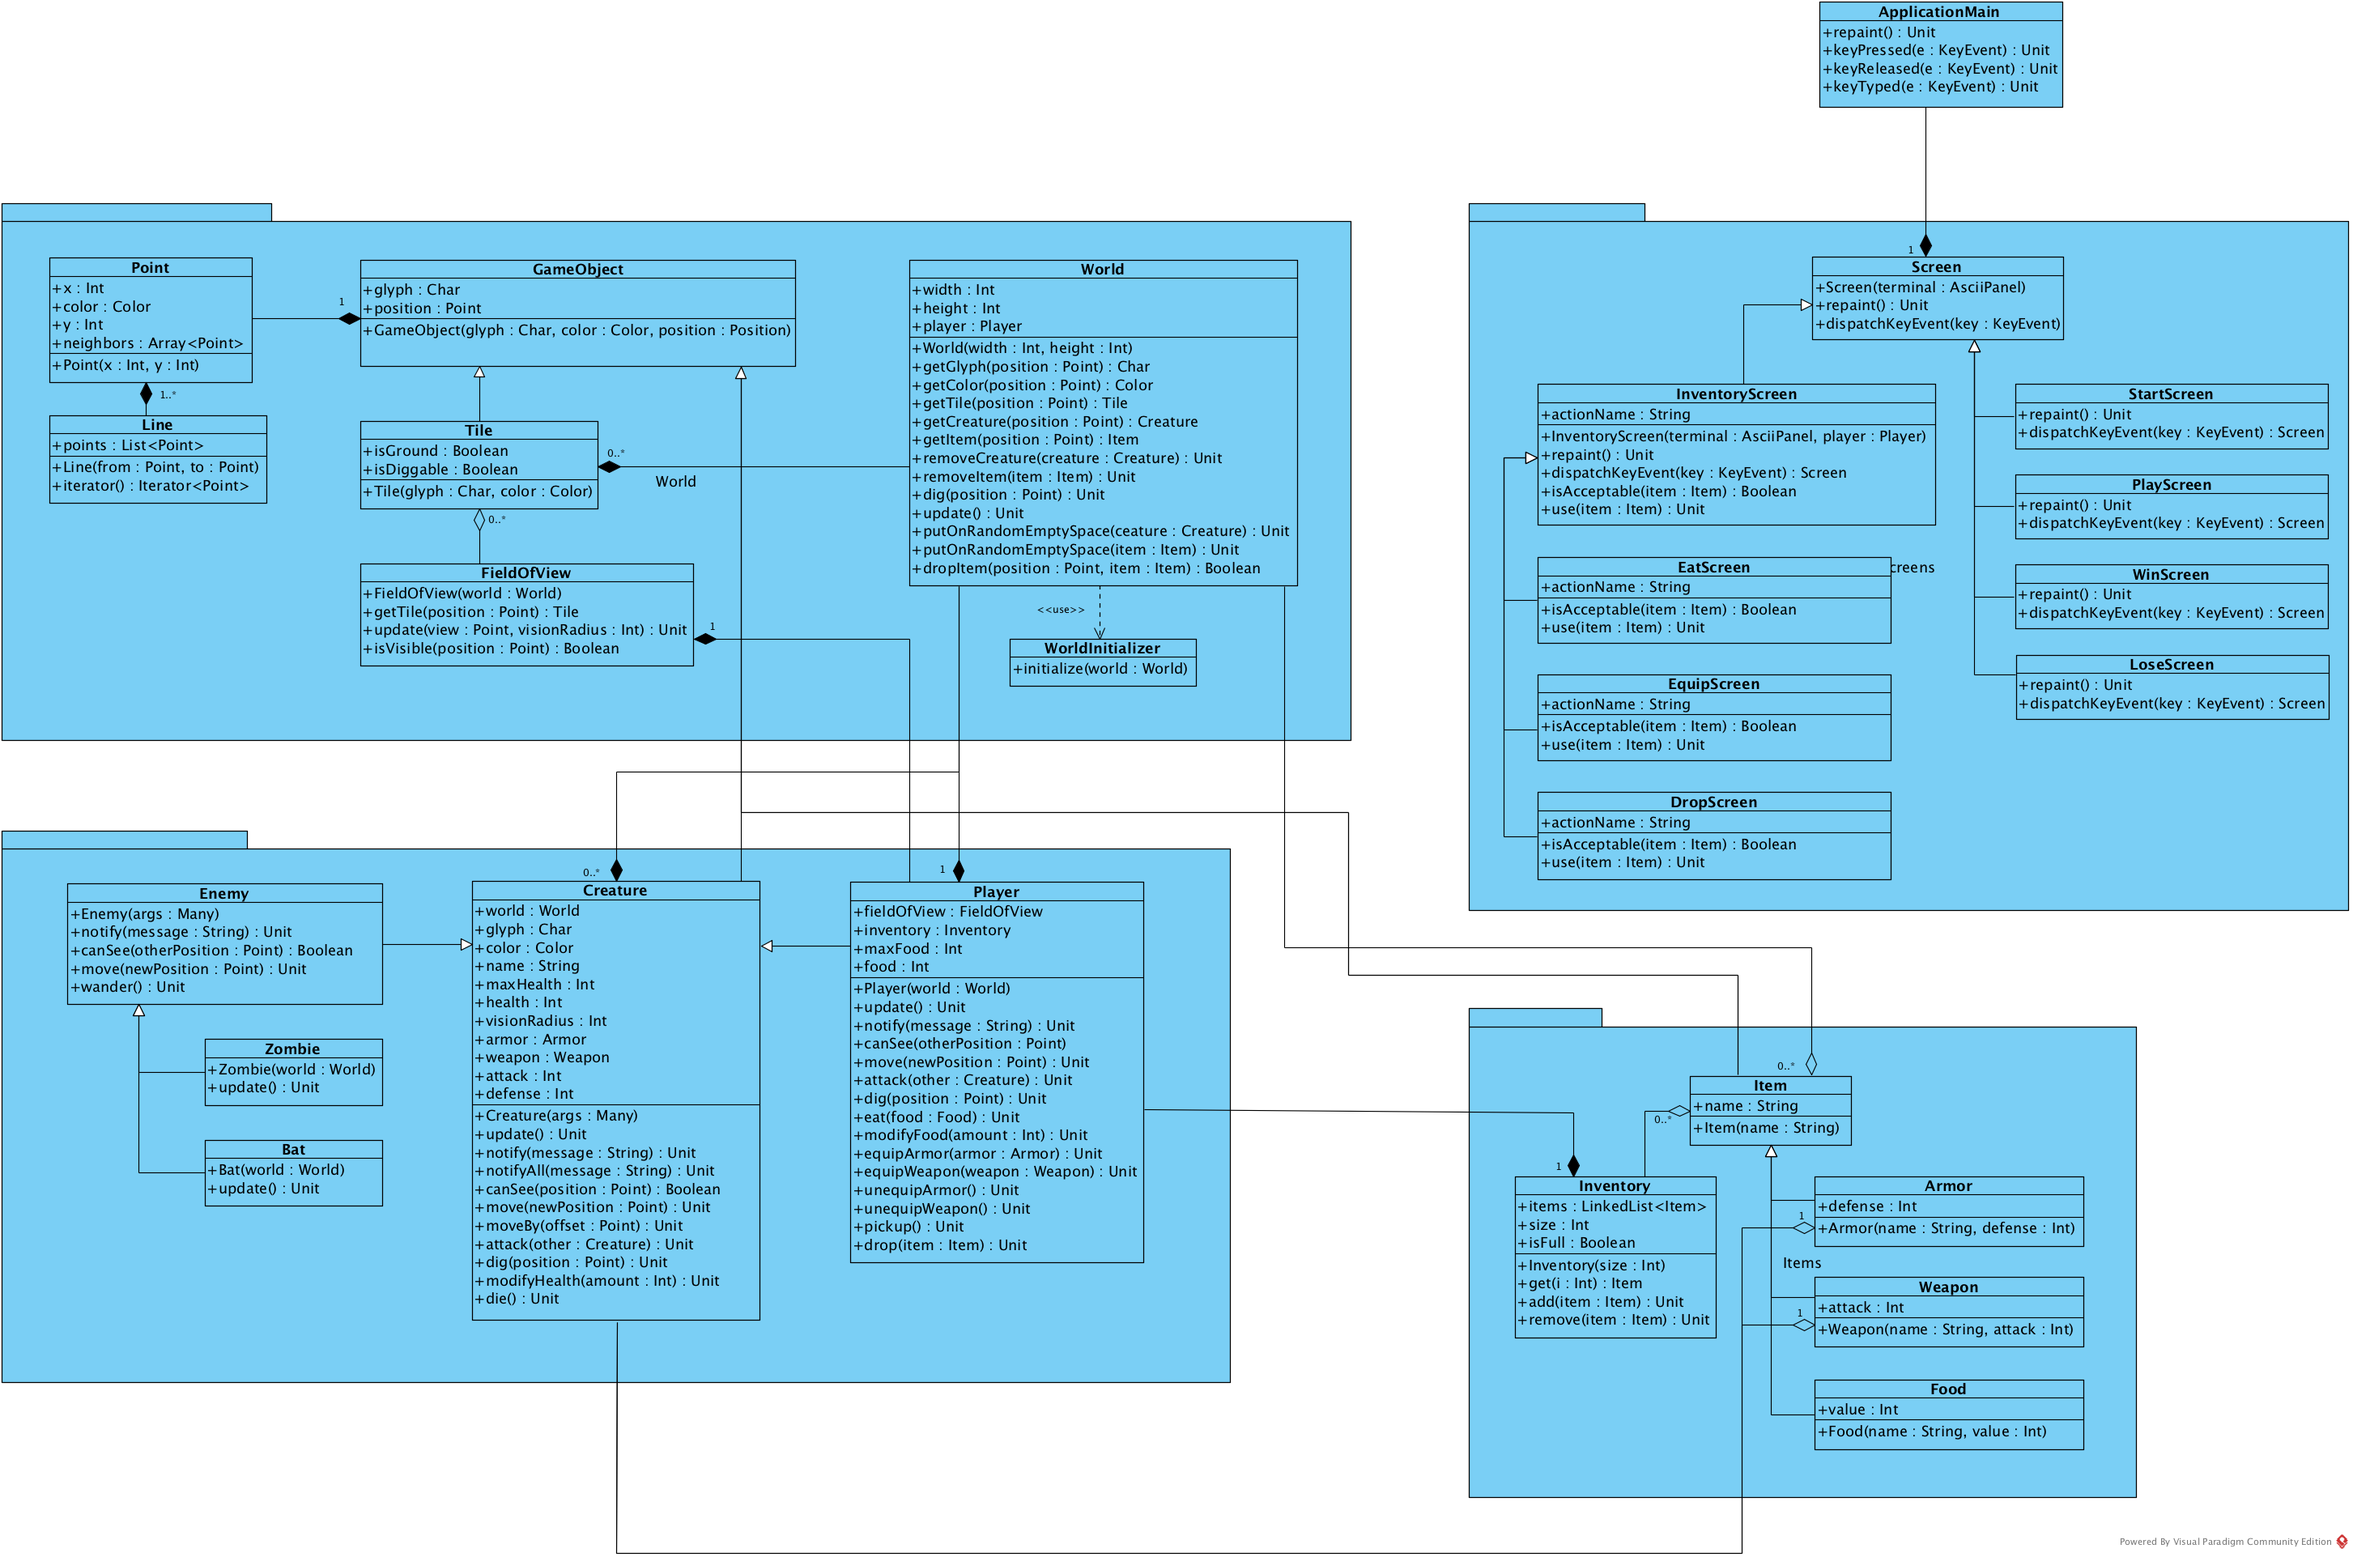
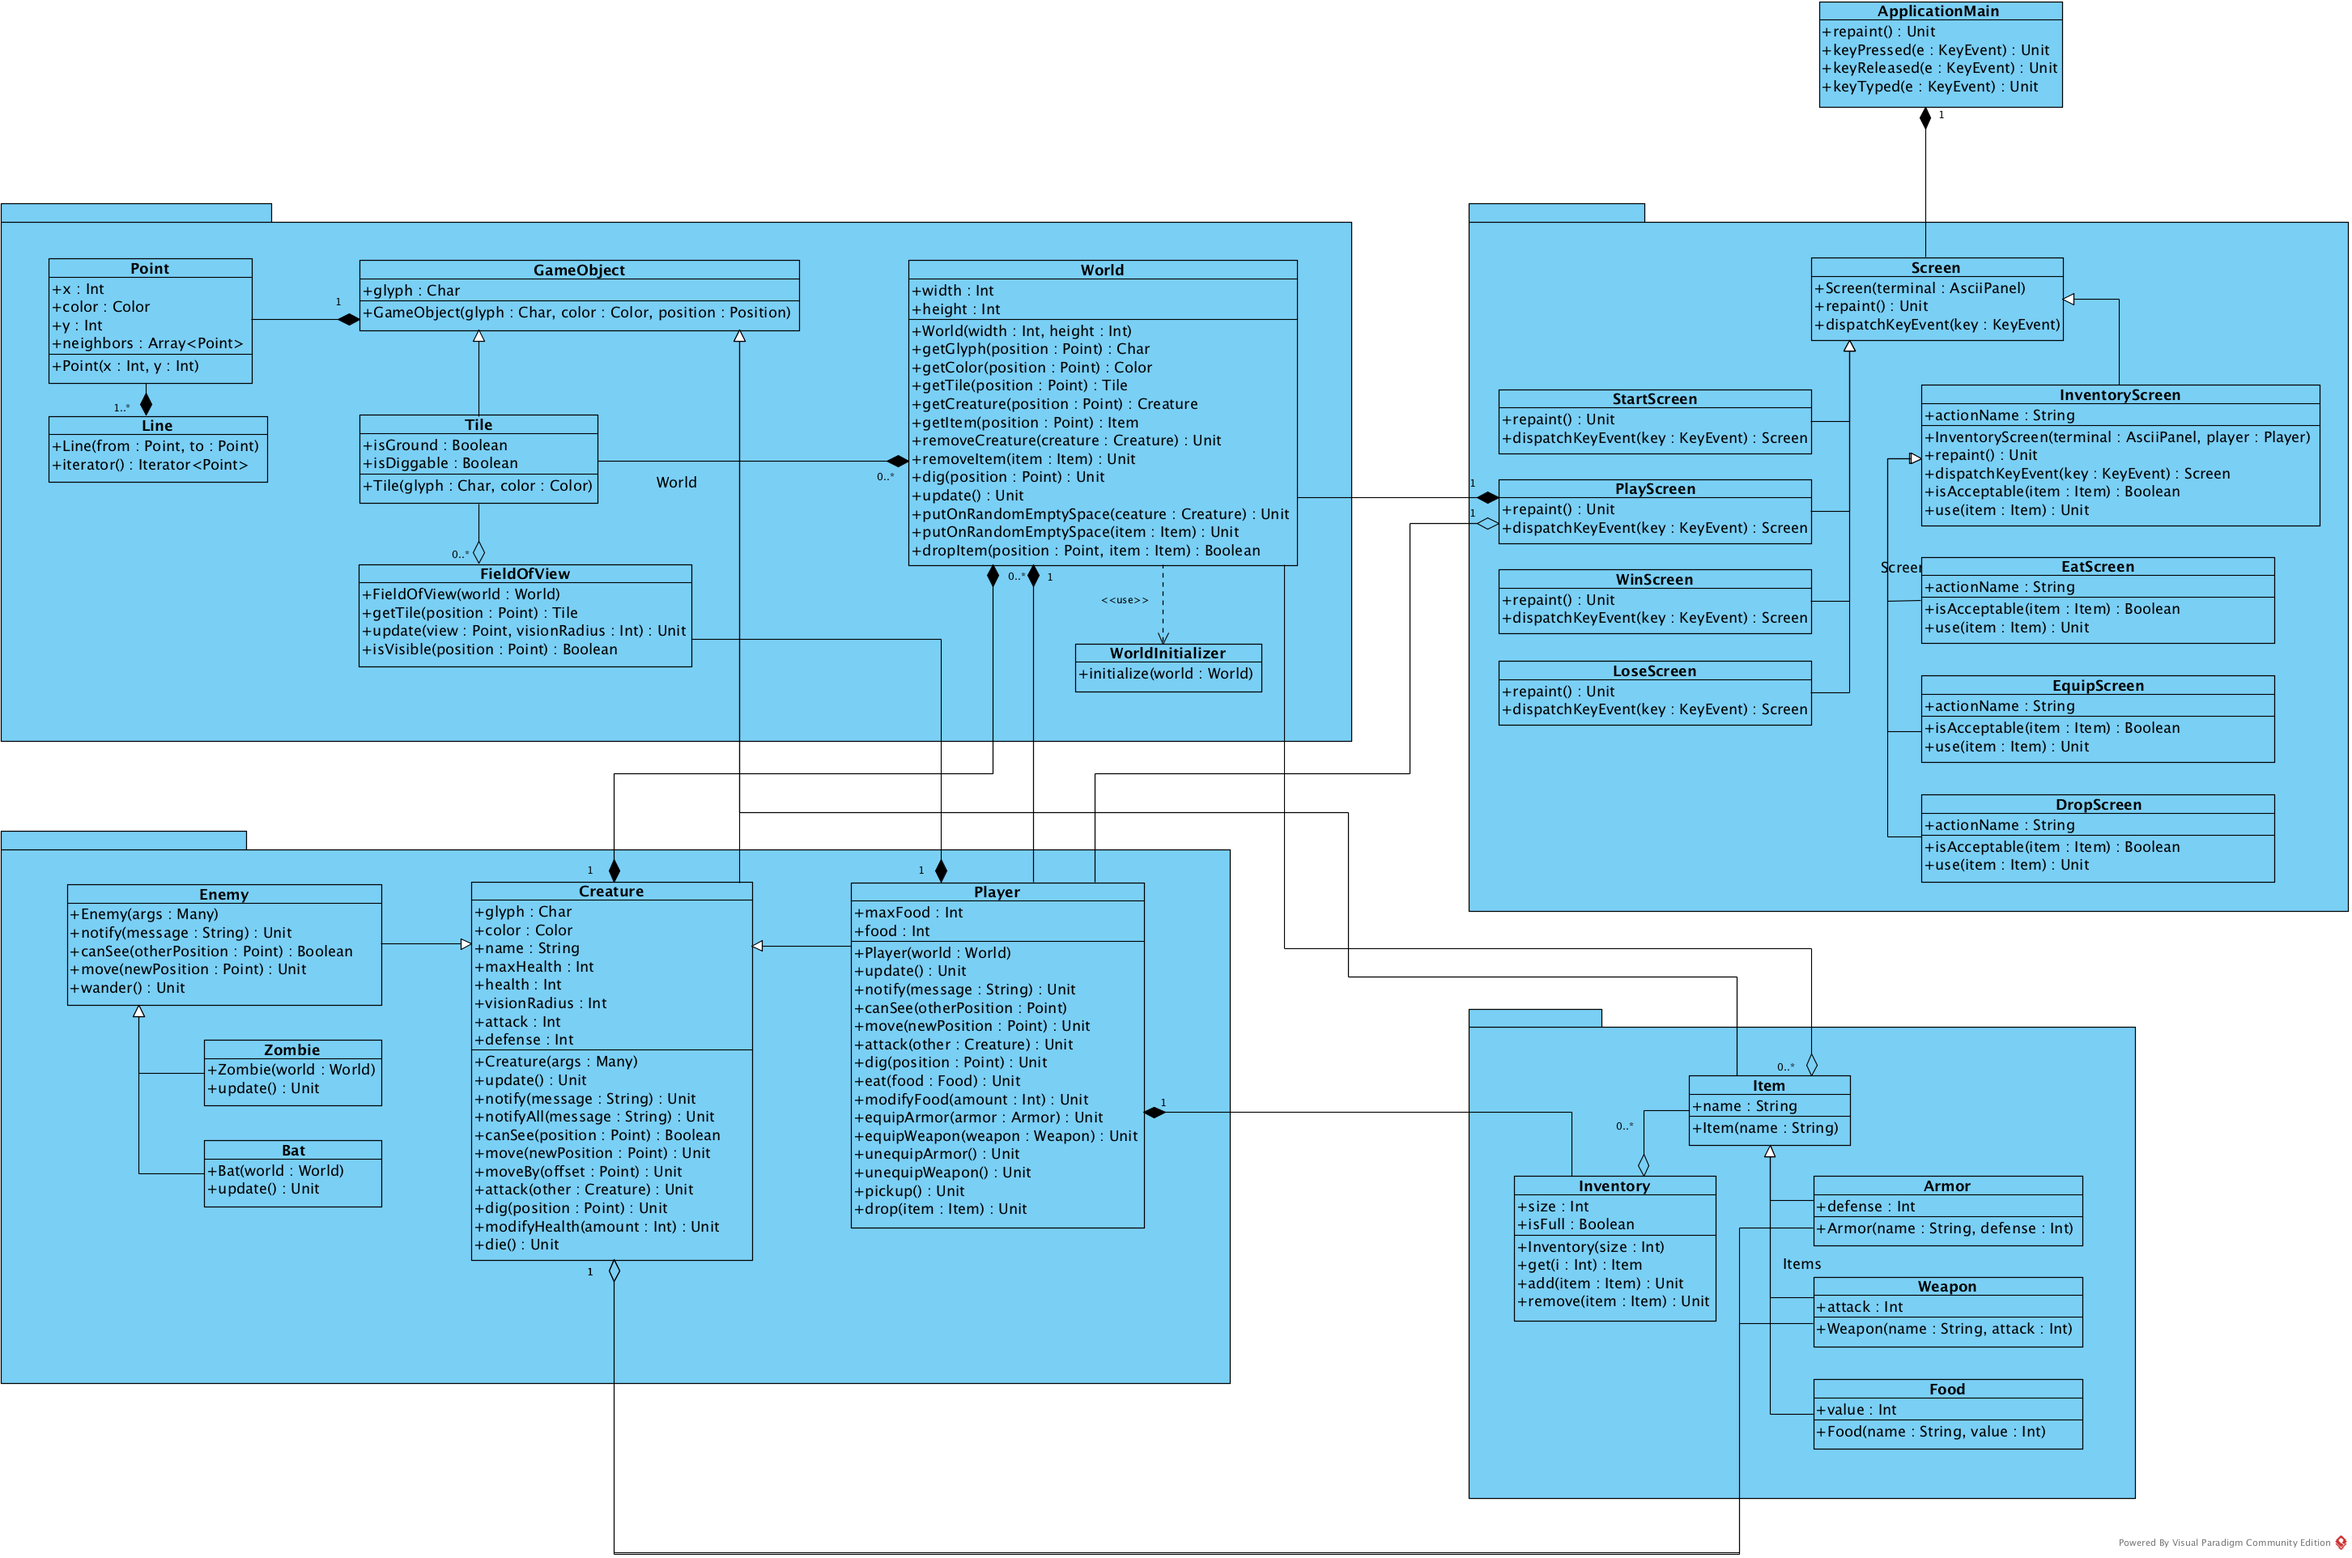
Fix desdoc

diff --git a/desdoc/README.md b/desdoc/README.md
@@ -108,12 +108,52 @@
 Для победы необходимо найти Грааль (`G`), дойти до выхода (`<`) и выйти на поверхность (нажатием `q`). 
 
 ## Композиция и логическая структура
+
 ![Classes](classes.png)  
-  
+
+В игре имеется 4 группы сущностей - Экраны, Мир, Существа и Предметы.
+
++ Экраны - экраны для каждого игрового режима. В игре имеется стартовый экран, игрово экран,
+экраны меню (снаряжения, еды, выбрасывания) и победный / проигрышный экран.
+На игровом экране происходит обработка всей основной игровой логики.
+На экранах меню обрабатывается специализированная игровая логика.
++ Мир - агрегирует в себе ландшафт, предметы, существ и игрока.
++ Существа - это одушевленные игровые объекты. Имеется абстрактнык класс Существо и его реализации - 
+Игрок, котором управляет игрок и Противник игрока, действующий в соответствии со своей моделью поведения.
+Противник игрока также является абстрактным классом. На данный момент имеются две реализации - 
+Летучая мышь и Зомби, которые отличаются своим поведением, набором характеристик и внешним видом.
++ Предметы - это неодушевленные игровые, которые можно держать в инвентаре или положить на землю.
+Все объекты можно разделить на 4 группы - Оружие, Броня, Еда и Остальное.
+Оружие и броню можно надеть, чтобы улучшить свои характеристики. Еду можно съесть, чтобы избавиться от голода.
+Среди остальных предметов на данный момент представлены Камень и Грааль. 
+Первый не несет никакой пользы, а второй является частью условия победы.
+
+Точка входа в игру - ApplicationMain. Она владеет текущим игровым экраном.
+
 ## Взаимодействия и состояние
 
 ### Диаграмма последовательностей
-![Sequences](sequences.png)  
-  
+
+![Sequences](sequences.png)
+
+После инициализации игры игрок автоматически перенаправляется на стартовый экран.
+Далее игрок начинает игру и переходит на игровой экран.
+Игрок может выбрать экипировку, перейдя на специализированный экран выбора экипировки.
+Игрок может съесть предмет из инвентаря, перейдся на специализированный экран приема пищи.
+Игрок может выбросить предмет из инвентаря, перейдся на специализированный экран выбрасывания предметов.
+После посещения любого из специализированных экранов игрок может вернуться обратно на игровой экран.
+В случае победы игрок переходит на победный экран. С этого экрана можно перейти в самое начало - стартовый экран.
+
 ### Диаграмма конечных автоматов
+
 ![FSM](fsm.png)
+
+Игра начинается со стартового экрана.
+Далее игрок переходит на игровой экран, на котором отображен игровой мир.
+
+С игрового экрана игрок может перейти в один из 3 экранов меню: 
+меню снаряжения, меню еды или меню выбрасывания предметов.
+После выполнения всех необходимых действий в меню игрок может вернуться на игровой экран.
+
+Если здоровье игрока упадет до 0, то он перейдет в проигрышное состояние.
+Если игрок найдет Грааль и донесет его до выхода, то он перейдет в выигрышное состояние.
